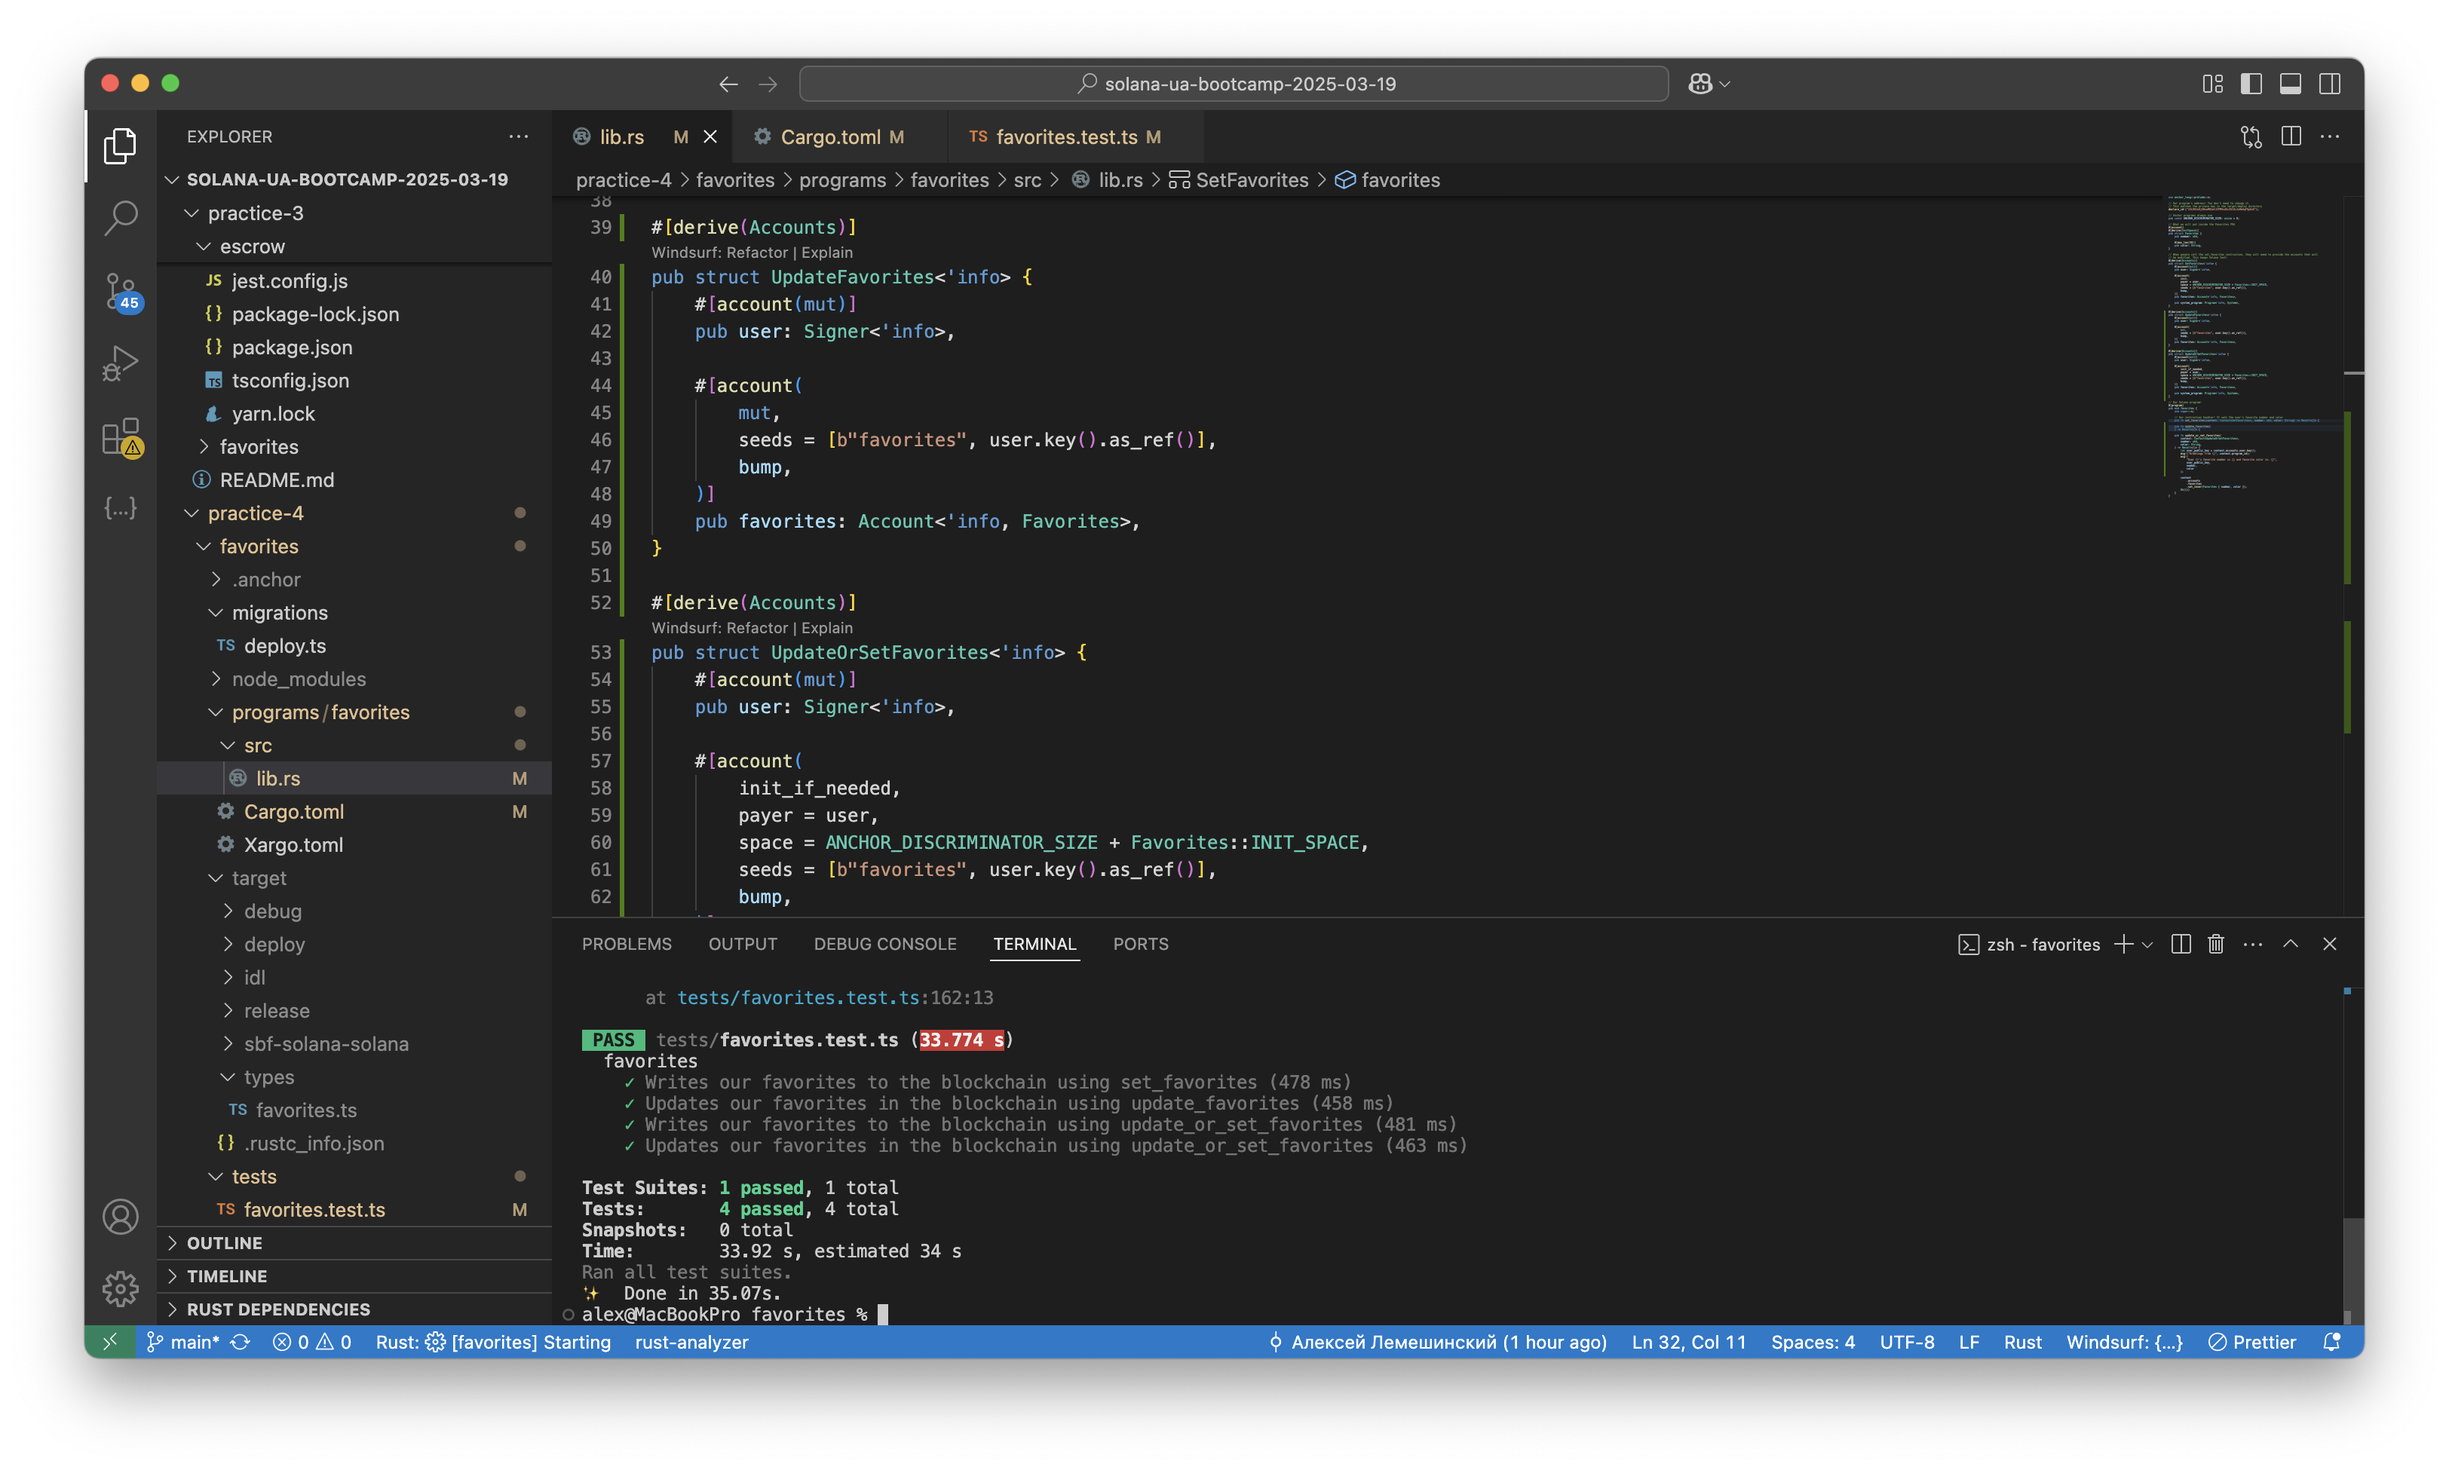
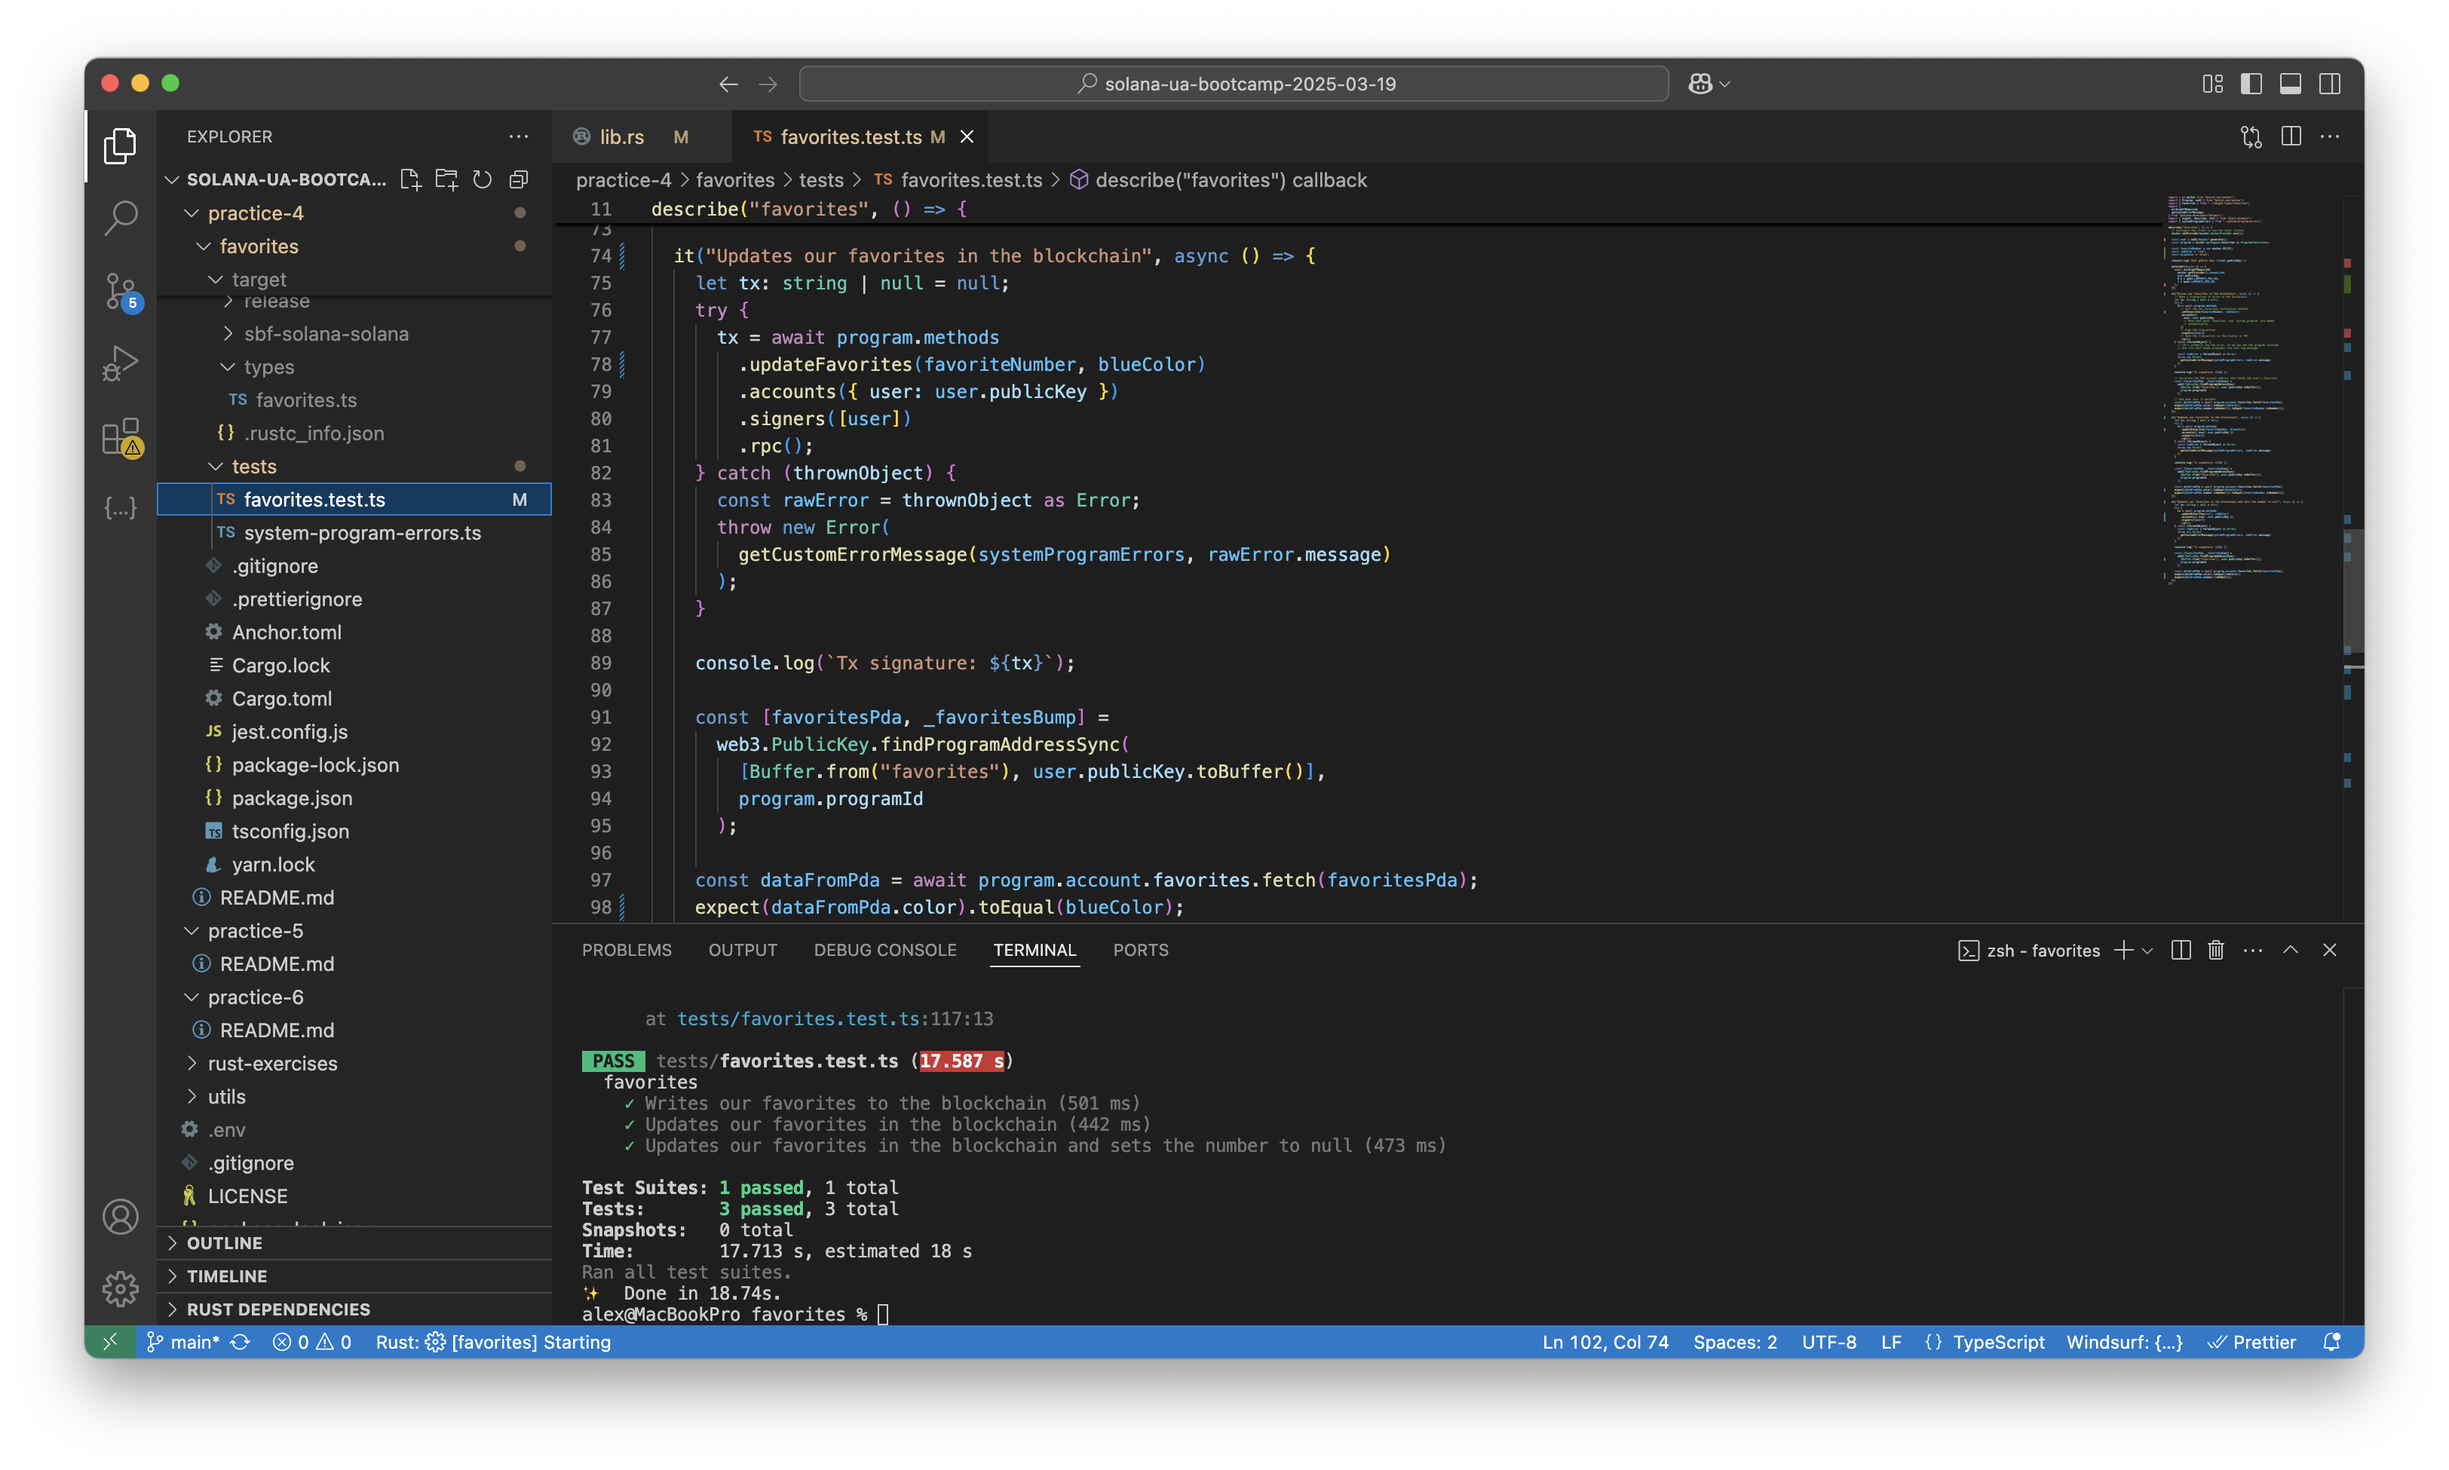
practice-4.1 update favorites optional number

diff --git a/practice-4/favorites/tests/favorites.test.ts b/practice-4/favorites/tests/favorites.test.ts
@@ -13,8 +13,11 @@ describe("favorites", () => {
   anchor.setProvider(anchor.AnchorProvider.env());
 
   const user = web3.Keypair.generate();
-  const user2 = web3.Keypair.generate();
   const program = anchor.workspace.Favorites as Program<Favorites>;
+
+  const favoriteNumber = new anchor.BN(23);
+  const redColor = "red";
+  const blueColor = "blue";
 
   console.log(`User public key: ${user.publicKey}`);
 
@@ -25,26 +28,15 @@ describe("favorites", () => {
       0.5 * web3.LAMPORTS_PER_SOL,
       1 * web3.LAMPORTS_PER_SOL
     );
-
-    await airdropIfRequired(
-      anchor.getProvider().connection,
-      user2.publicKey,
-      0.5 * web3.LAMPORTS_PER_SOL,
-      1 * web3.LAMPORTS_PER_SOL
-    );
   });
 
-  it("Writes our favorites to the blockchain using set_favorites", async () => {
-    // Here's what we want to write to the blockchain
-    const favoriteNumber = new anchor.BN(23);
-    const favoriteColor = "red";
-
+  it("Writes our favorites to the blockchain", async () => {
     // Make a transaction to write to the blockchain
     let tx: string | null = null;
     try {
       tx = await program.methods
         // Call the set_favorites instruction handler
-        .setFavorites(favoriteNumber, favoriteColor)
+        .setFavorites(favoriteNumber, redColor)
         .accounts({
           user: user.publicKey,
           // Note that both `favorites` and `system_program` are added
@@ -75,18 +67,15 @@ describe("favorites", () => {
 
     // And make sure it matches!
     const dataFromPda = await program.account.favorites.fetch(favoritesPda);
-    expect(dataFromPda.color).toEqual(favoriteColor);
+    expect(dataFromPda.color).toEqual(redColor);
     expect(dataFromPda.number.toNumber()).toEqual(favoriteNumber.toNumber());
   });
 
-  it("Updates our favorites in the blockchain using update_favorites", async () => {
-    const favoriteNumber = new anchor.BN(23);
-    const favoriteColor = "blue";
-
+  it("Updates our favorites in the blockchain", async () => {
     let tx: string | null = null;
     try {
       tx = await program.methods
-        .updateFavorites(favoriteNumber, favoriteColor)
+        .updateFavorites(favoriteNumber, blueColor)
         .accounts({ user: user.publicKey })
         .signers([user])
         .rpc();
@@ -106,20 +95,17 @@ describe("favorites", () => {
       );
 
     const dataFromPda = await program.account.favorites.fetch(favoritesPda);
-    expect(dataFromPda.color).toEqual(favoriteColor);
+    expect(dataFromPda.color).toEqual(blueColor);
     expect(dataFromPda.number.toNumber()).toEqual(favoriteNumber.toNumber());
   });
 
-  it("Writes our favorites to the blockchain using update_or_set_favorites", async () => {
-    const favoriteNumber = new anchor.BN(23);
-    const favoriteColor = "yellow";
-
+  it("Updates our favorites in the blockchain and sets the number to null", async () => {
     let tx: string | null = null;
     try {
       tx = await program.methods
-        .updateOrSetFavorites(favoriteNumber, favoriteColor)
-        .accounts({ user: user2.publicKey })
-        .signers([user2])
+        .updateFavorites(null, redColor)
+        .accounts({ user: user.publicKey })
+        .signers([user])
         .rpc();
     } catch (thrownObject) {
       const rawError = thrownObject as Error;
@@ -132,43 +118,12 @@ describe("favorites", () => {
 
     const [favoritesPda, _favoritesBump] =
       web3.PublicKey.findProgramAddressSync(
-        [Buffer.from("favorites"), user2.publicKey.toBuffer()],
+        [Buffer.from("favorites"), user.publicKey.toBuffer()],
         program.programId
       );
 
     const dataFromPda = await program.account.favorites.fetch(favoritesPda);
-    expect(dataFromPda.color).toEqual(favoriteColor);
-    expect(dataFromPda.number.toNumber()).toEqual(favoriteNumber.toNumber());
-  });
-
-  it("Updates our favorites in the blockchain using update_or_set_favorites", async () => {
-    const favoriteNumber = new anchor.BN(23);
-    const favoriteColor = "green";
-
-    let tx: string | null = null;
-    try {
-      tx = await program.methods
-        .updateOrSetFavorites(favoriteNumber, favoriteColor)
-        .accounts({ user: user2.publicKey })
-        .signers([user2])
-        .rpc();
-    } catch (thrownObject) {
-      const rawError = thrownObject as Error;
-      throw new Error(
-        getCustomErrorMessage(systemProgramErrors, rawError.message)
-      );
-    }
-
-    console.log(`Tx signature: ${tx}`);
-
-    const [favoritesPda, _favoritesBump] =
-      web3.PublicKey.findProgramAddressSync(
-        [Buffer.from("favorites"), user2.publicKey.toBuffer()],
-        program.programId
-      );
-
-    const dataFromPda = await program.account.favorites.fetch(favoritesPda);
-    expect(dataFromPda.color).toEqual(favoriteColor);
-    expect(dataFromPda.number.toNumber()).toEqual(favoriteNumber.toNumber());
+    expect(dataFromPda.color).toEqual(redColor);
+    expect(dataFromPda.number).toBeNull();
   });
 });

diff --git a/practice-4/favorites/programs/favorites/src/lib.rs b/practice-4/favorites/programs/favorites/src/lib.rs
@@ -11,7 +11,7 @@ pub const ANCHOR_DISCRIMINATOR_SIZE: usize = 8;
 #[account]
 #[derive(InitSpace)]
 pub struct Favorites {
-    pub number: u64,
+    pub number: Option<u64>,
 
     #[max_len(50)]
     pub color: String,
@@ -49,36 +49,24 @@ pub struct UpdateFavorites<'info> {
     pub favorites: Account<'info, Favorites>,
 }
 
-#[derive(Accounts)]
-pub struct UpdateOrSetFavorites<'info> {
-    #[account(mut)]
-    pub user: Signer<'info>,
-
-    #[account(
-        init_if_needed,
-        payer = user,
-        space = ANCHOR_DISCRIMINATOR_SIZE + Favorites::INIT_SPACE,
-        seeds = [b"favorites", user.key().as_ref()],
-        bump,
-    )]
-    pub favorites: Account<'info, Favorites>,
-
-    pub system_program: Program<'info, System>,
-}
-
 // Our Solana program!
 #[program]
 pub mod favorites {
     use super::*;
 
     // Our instruction handler! It sets the user's favorite number and color
-    pub fn set_favorites(context: Context<SetFavorites>, number: u64, color: String) -> Result<()> {
+    pub fn set_favorites(
+        context: Context<SetFavorites>,
+        number: Option<u64>,
+        color: String,
+    ) -> Result<()> {
         let user_public_key = context.accounts.user.key();
         msg!("Greetings from {}", context.program_id);
+
         msg!(
             "User {}'s favorite number is {} and favorite color is: {}",
             user_public_key,
-            number,
+            number.map_or("null".to_string(), |n| n.to_string()),
             color
         );
 
@@ -91,36 +79,16 @@ pub mod favorites {
 
     pub fn update_favorites(
         context: Context<UpdateFavorites>,
-        number: u64,
+        number: Option<u64>,
         color: String,
     ) -> Result<()> {
         let user_public_key = context.accounts.user.key();
         msg!("Greetings from {}", context.program_id);
+
         msg!(
             "User {}'s favorite number is {} and favorite color is: {}",
             user_public_key,
-            number,
-            color
-        );
-
-        context
-            .accounts
-            .favorites
-            .set_inner(Favorites { number, color });
-        Ok(())
-    }
-
-    pub fn update_or_set_favorites(
-        context: Context<UpdateOrSetFavorites>,
-        number: u64,
-        color: String,
-    ) -> Result<()> {
-        let user_public_key = context.accounts.user.key();
-        msg!("Greetings from {}", context.program_id);
-        msg!(
-            "User {}'s favorite number is {} and favorite color is: {}",
-            user_public_key,
-            number,
+            number.map_or("null".to_string(), |n| n.to_string()),
             color
         );
 
